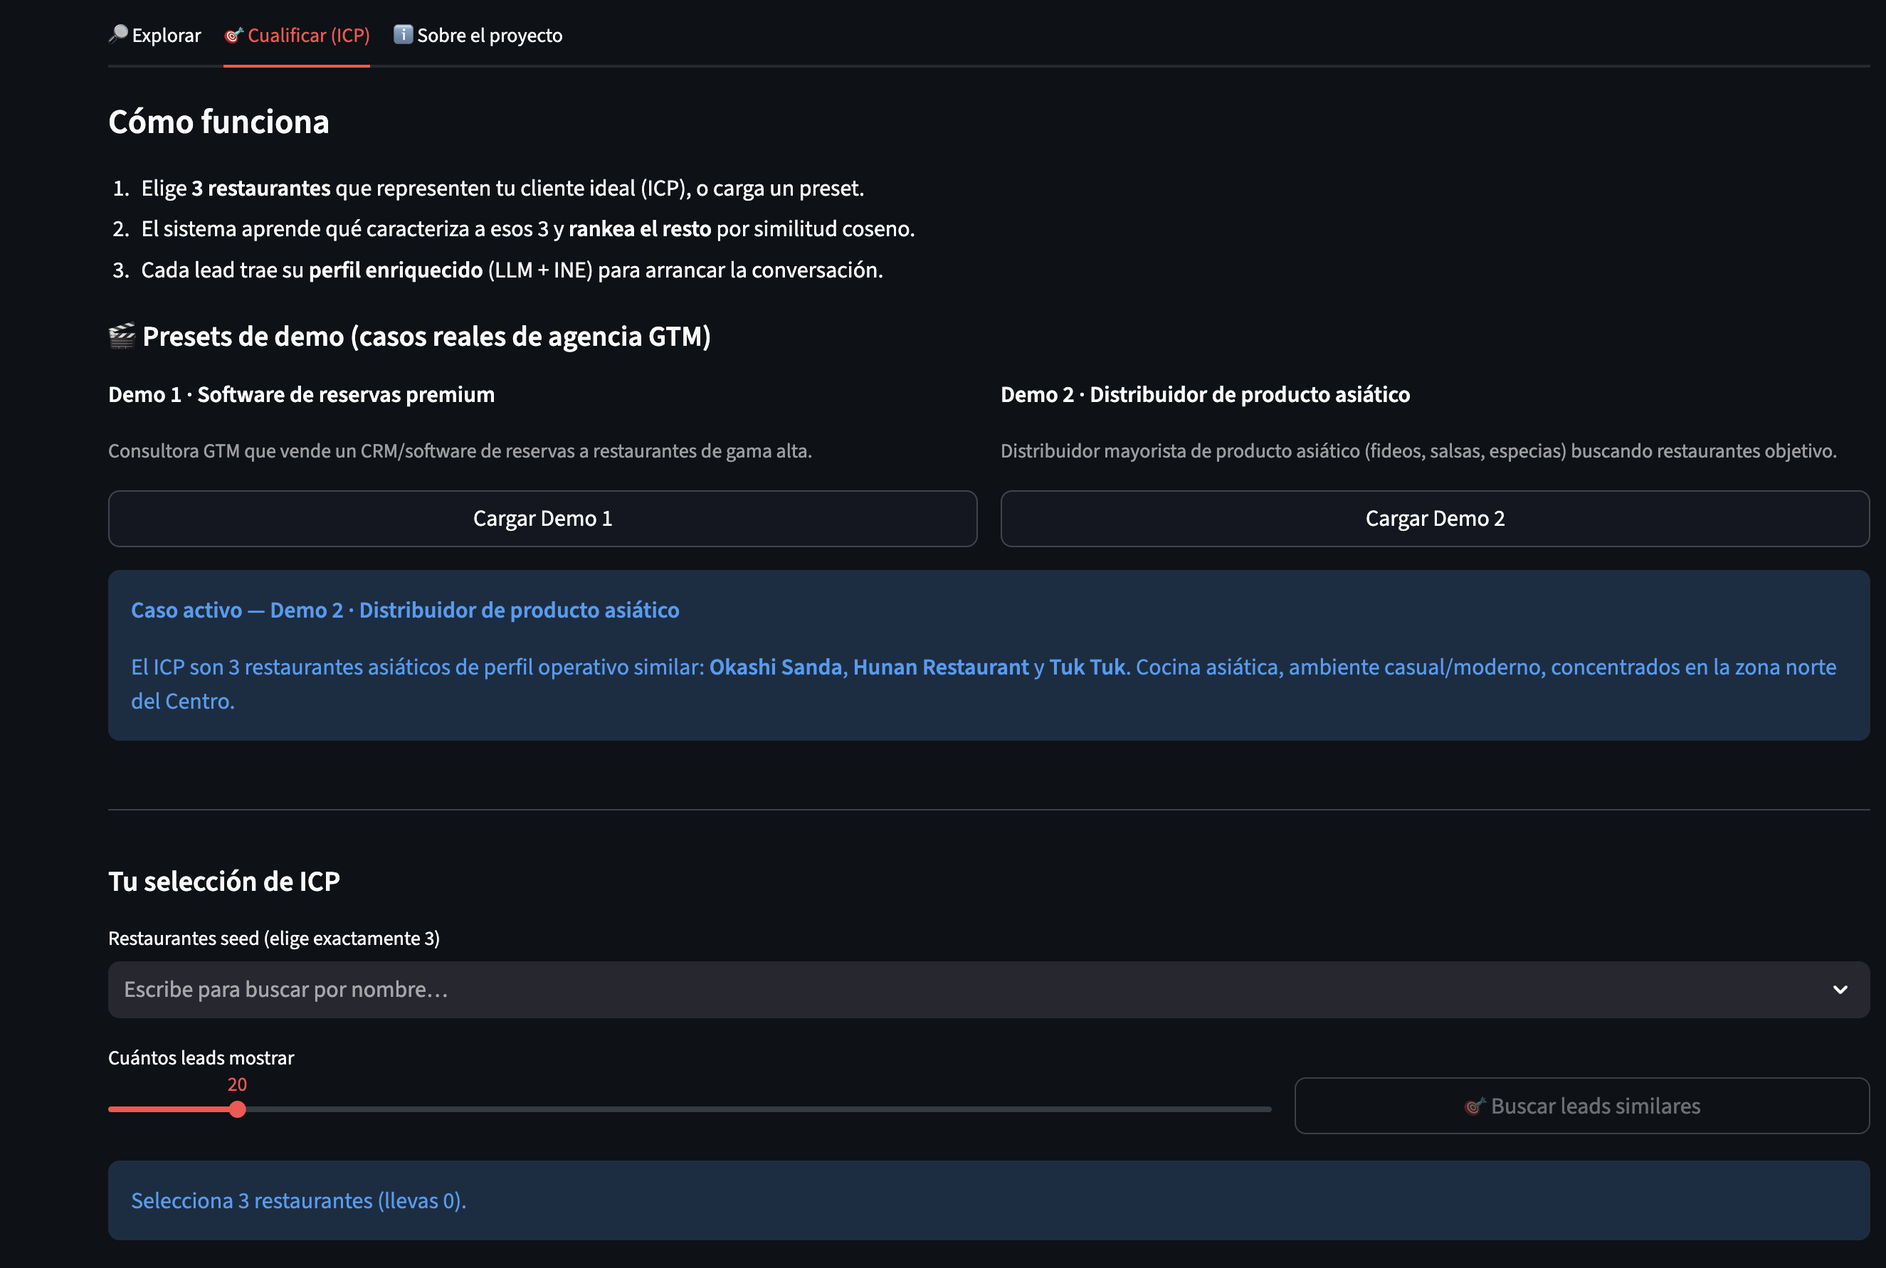
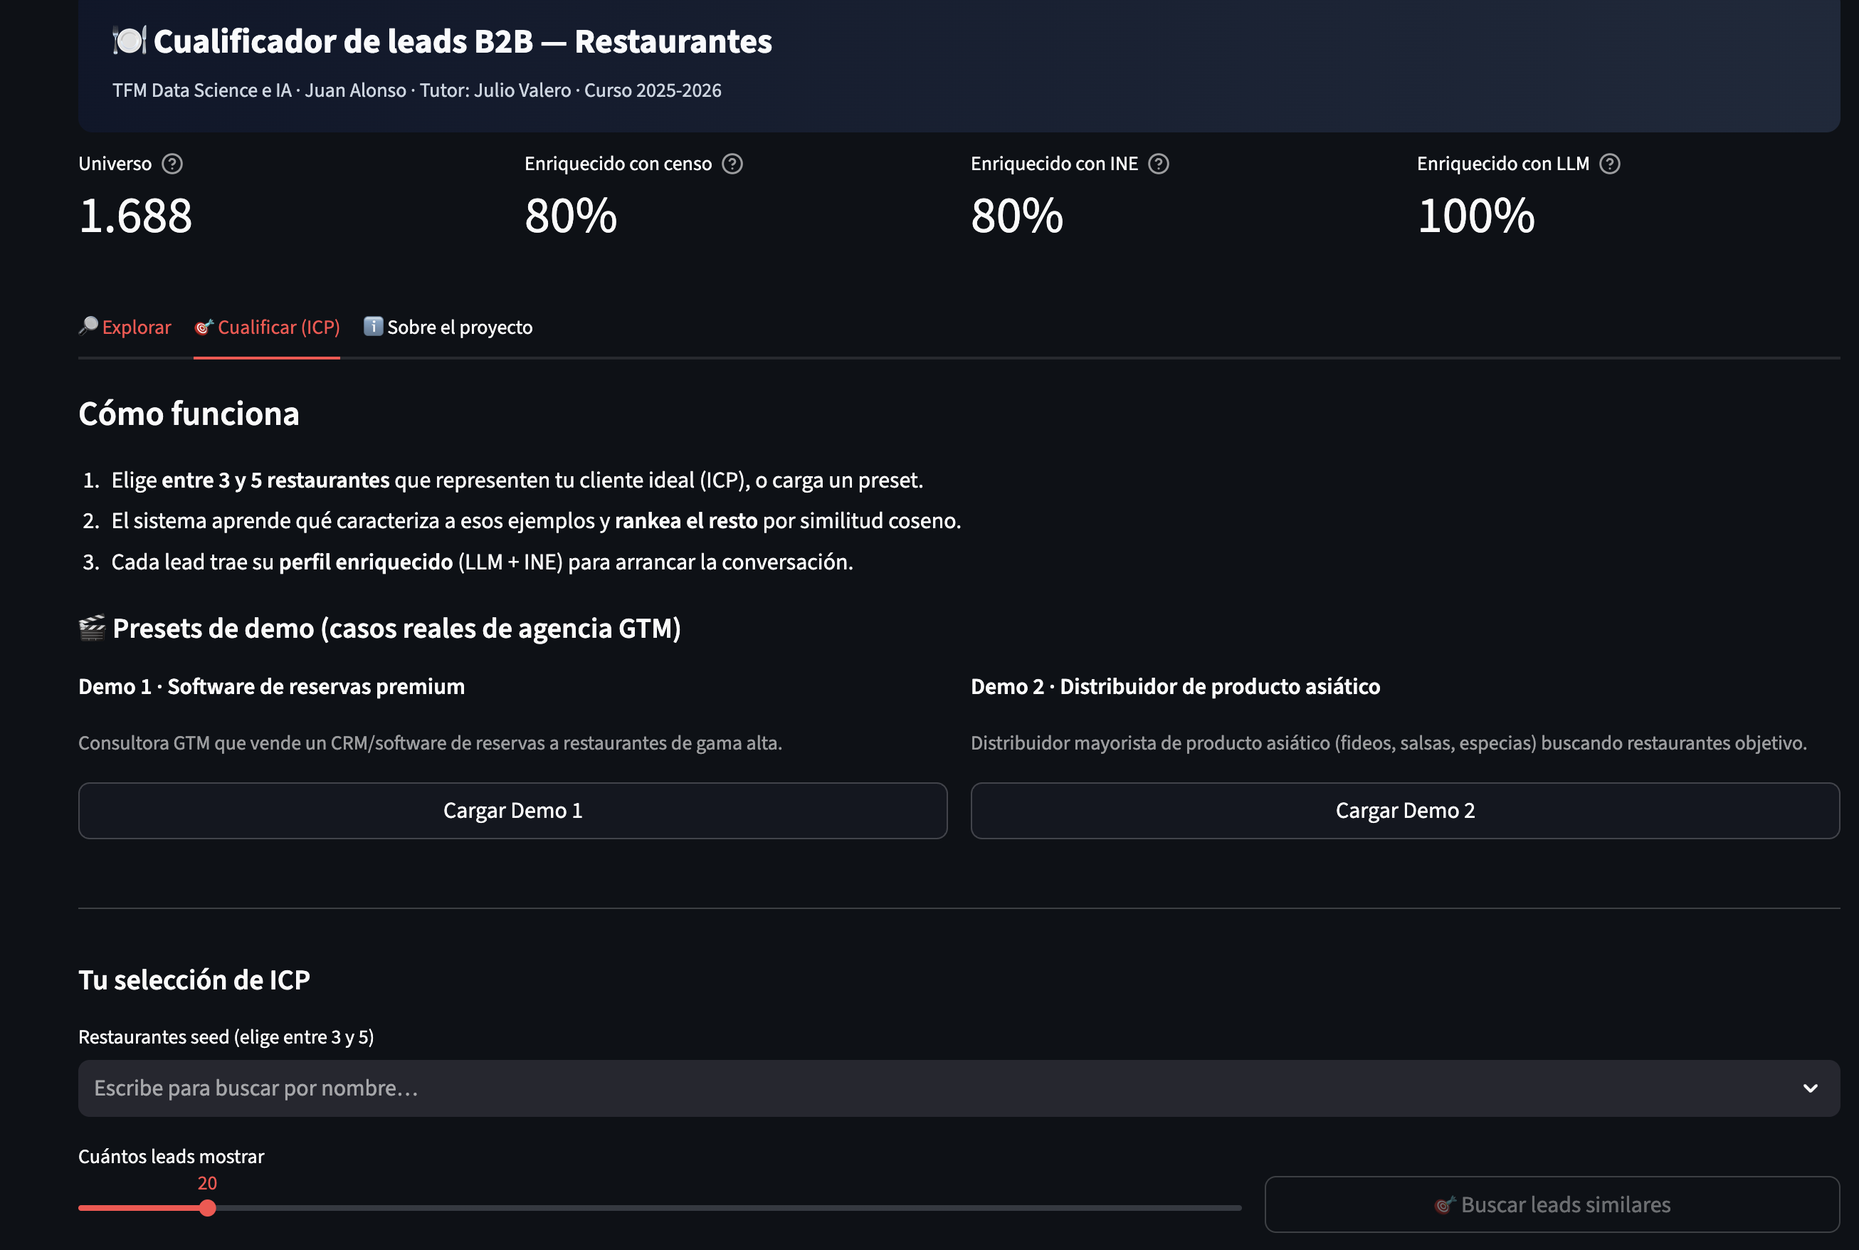
docs(entrega 5) + app: alinea con 5 seeds y embedding
Entrega 5 reescrita, capturas nuevas y textos de la app actualizados.

Claude-Session: https://claude.ai/code/session_01USMxBL4RBUTC9pvMKJ4Fe6

diff --git a/app/app.py b/app/app.py
@@ -4,7 +4,7 @@ TFM Data Science e IA — Juan Alonso · Tutor: Julio Valero · 2025-2026
 
 Pestañas:
 - 🔎 Explorar: universo de restaurantes con filtros, KPIs y mapa.
-- 🎯 Cualificar: seleccionas 3 restaurantes como ICP y devuelve top-K similares.
+- 🎯 Cualificar: seleccionas entre 3 y 5 restaurantes como ICP y devuelve top-K similares.
 - ℹ Sobre el proyecto: cifras del TFM, fuentes y features del modelo.
 
 Ejecutar desde la raíz del repo:
@@ -217,8 +217,8 @@ with tab_cualificar:
 
     st.markdown(
         "#### Cómo funciona\n"
-        "1. Elige **3 restaurantes** que representen tu cliente ideal (ICP), o carga un preset.\n"
-        "2. El sistema aprende qué caracteriza a esos 3 y **rankea el resto** por similitud coseno.\n"
+        "1. Elige **entre 3 y 5 restaurantes** que representen tu cliente ideal (ICP), o carga un preset.\n"
+        "2. El sistema aprende qué caracteriza a esos ejemplos y **rankea el resto** por similitud coseno.\n"
         "3. Cada lead trae su **perfil enriquecido** (LLM + INE) para arrancar la conversación."
     )
 
@@ -422,7 +422,7 @@ with tab_proyecto:
 
     st.markdown("### La solución")
     st.markdown(
-        "Un sistema que, a partir de **3 restaurantes de referencia** (ICP) aportados "
+        "Un sistema que, a partir de **entre 3 y 5 restaurantes de referencia** (ICP) aportados "
         "por el usuario, aprende automáticamente el perfil ideal mediante técnicas de "
         "*few-shot learning* y prioriza el universo restante por similitud coseno."
     )

diff --git a/docs/entregas/05_frontal_experiencia_usuario.md b/docs/entregas/05_frontal_experiencia_usuario.md
@@ -26,10 +26,10 @@ El frontal está diseñado para dos perfiles complementarios dentro del mismo ca
 
 ### Problema que resuelve el frontal
 
-El frontal traduce un motor complejo de datos y modelado (capa gold de 33 features, enriquecimiento LLM, modelo de similitud coseno) en **dos flujos comprensibles para usuarios que no saben programar**:
+El frontal traduce un motor complejo de datos y modelado (capa gold de 33 features, enriquecimiento LLM, modelo de similitud coseno con embedding semántico de 551 dimensiones) en **dos flujos comprensibles para usuarios que no saben programar**:
 
 1. **Explorar** el universo por filtros clásicos (barrio, cocina, epígrafe...) para entender qué hay.
-2. **Cualificar** un conjunto de leads similares a un ICP definido con solo 3 restaurantes-ejemplo.
+2. **Cualificar** un conjunto de leads similares a un ICP definido con 3-5 restaurantes-ejemplo.
 
 Sin este frontal, el mismo motor exigiría escribir código Python y consultar parquets — inviable en un contexto comercial. Con el frontal, el usuario obtiene ranking, mapa y dossier listos para pegar en HubSpot/Notion en menos de 30 segundos.
 
@@ -70,12 +70,12 @@ Al final del listado se ofrece un botón de descarga a CSV para llevarse el subc
 Aquí ocurre el valor diferencial del sistema. La pestaña se abre con:
 
 1. **Instrucciones "Cómo funciona"** en tres pasos numerados que anticipan el flujo.
-2. **Dos botones de presets** — Demo 1 (software de reservas premium) y Demo 2 (distribuidor de producto asiático) — que cargan casos comerciales reales.
-3. **Selector manual** para que el usuario pueda componer su propio ICP.
+2. **Dos botones de presets** — Demo 1 (software de reservas premium, 5 seeds) y Demo 2 (distribuidor de producto asiático, 3 seeds) — que cargan casos comerciales reales.
+3. **Selector manual** para que el usuario pueda componer su propio ICP con entre 3 y 5 restaurantes.
 4. **Slider** para elegir cuántos leads mostrar (10 a 100, por defecto 20).
 5. **Botón "Buscar leads similares"** — el CTA principal, en rojo cuando está activo.
 
-El botón permanece **desactivado hasta que se hayan seleccionado exactamente 3 restaurantes**, con un aviso azul que indica al usuario cuántos lleva. Este bloqueo previene el error clásico de lanzar el modelo con un ICP mal definido.
+El botón permanece **desactivado hasta que se hayan seleccionado entre 3 y 5 restaurantes**, con un aviso azul que indica al usuario cuántos lleva. Este rango se estableció tras el análisis empírico documentado en la Entrega 4: con 3 seeds las métricas LOO son inestables (Recall@100 = 0.33), con 5 seeds mejoran significativamente (Recall@100 = 0.60).
 
 ![Pestaña Cualificar con instrucciones, presets y selección vacía](img/entrega5_03_cualificar_inicio.png)
 *Pestaña Cualificar antes de operar. La sección "Cómo funciona" explica el flujo. Los dos presets de demo dan casos comerciales concretos. El desplegable permite selección manual libre. Cuando ningún seed está seleccionado, el botón "Buscar leads similares" permanece bloqueado y un mensaje azul indica al usuario qué le falta.*
@@ -86,14 +86,14 @@ Al pulsar "Buscar leads similares", la vista se amplía con cuatro secciones api
 
 1. **Tres métricas clave** (Score medio del top-K, Score máximo, % de leads con web propia).
 2. **Ranking tabular** ordenado por score, con descarga a CSV.
-3. **Mapa seeds vs leads** con los tres seeds en verde y los leads en azul.
+3. **Mapa seeds vs leads** con los seeds en verde y los leads en azul.
 4. **Ficha detalle** del lead que el usuario elija en un selector.
 
 ![Ranking de leads con métricas y tabla ordenada](img/entrega5_04_ranking.png)
-*Resultados del ICP premium (seeds Sagardi, Sandó, Dray Martina). El score máximo es 0.808 y el score medio del top-20 es 0.640. El 100% de los leads recomendados tiene web propia — señal muy alineada con el ICP premium (un vendedor de software de reservas premium prefiere restaurantes ya digitalizados). El ranking devuelve nombres reales del segmento premium de Madrid, sin sesgo hacia una cocina concreta.*
+*Resultados del ICP premium (seeds Sagardi, Sandó, Dray Martina, AskuaBarra, Gioia). El score máximo es 0.763 y el score medio del top-20 es 0.604. El 100% de los leads recomendados tiene web propia — señal muy alineada con el ICP premium (un vendedor de software de reservas premium prefiere restaurantes ya digitalizados). El ranking devuelve nombres reales del segmento premium de Madrid: La Taberna del Alabardero, Café de Oriente, Bloved Veggie Corner, Superchulo, Lelong Asian Club, La Primera, Ópera Victoria, entre otros — con diversidad de cocinas y ambientes, sin sesgo hacia un tipo concreto.*
 
 ![Mapa seeds vs leads y ficha detalle](img/entrega5_05_mapa_ficha.png)
-*Mapa geográfico con los seeds del ICP (verde) y los leads recomendados (azul). Se aprecia la concentración de leads en Justicia (Chueca) y Palacio, coherente con la naturaleza premium del ICP. Debajo, la ficha detalle del lead seleccionado (La Taberna del Alabardero, score 0.808) muestra el nombre, ubicación, cocina, score de similitud, renta media del entorno (32.264 €) y las señales operativas del restaurante.*
+*Mapa geográfico con los seeds del ICP (verde) y los leads recomendados (azul). Se aprecia la concentración de leads en Palacio, Justicia y Cortes, coherente con la naturaleza premium del ICP. Debajo, la ficha detalle del lead seleccionado (La Taberna del Alabardero, score 0.763) muestra el nombre, ubicación, cocina, score de similitud, renta media del entorno y las señales operativas del restaurante.*
 
 ![Perfil cualitativo del LLM y dossier copy-paste para CRM](img/entrega5_06_dossier.png)
 *Parte inferior de la ficha detalle. Perfil cualitativo generado por el LLM (ambiente, presencia digital, posicionamiento, clientela) con un resumen textual que contextualiza el restaurante para el comercial. Al final, un dossier en formato Markdown listo para copiar y pegar directamente en HubSpot, Notion o cualquier herramienta CRM.*
@@ -108,11 +108,11 @@ La acción principal es una sola: pulsar "Buscar leads similares". El resto del 
 
 ### Presets como ancla narrativa
 
-Los presets de demo no son solo un atajo técnico — son **narrativas comerciales completas** que contextualizan el ICP. Al pulsar "Cargar Demo 1", aparece un cuadro azul explicando quién es el cliente (consultora GTM), qué producto vende (software de reservas premium), qué restaurantes ha elegido como ejemplo y por qué. Esto convierte una demo técnica en una historia comprensible para cualquier no-técnico.
+Los presets de demo no son solo un atajo técnico — son **narrativas comerciales completas** que contextualizan el ICP. Al pulsar "Cargar Demo 1", aparece un cuadro azul explicando quién es el cliente (consultora GTM), qué producto vende (software de reservas premium), qué 5 restaurantes ha elegido como ejemplo y por qué. Esto convierte una demo técnica en una historia comprensible para cualquier no-técnico.
 
 ### Bloqueo de estados inválidos
 
-El botón "Buscar leads similares" solo se activa con exactamente 3 seeds. Es una restricción **coherente con la técnica de few-shot learning que respalda el modelo**: el sistema está diseñado para operar con 3 ejemplos, y forzar esa cardinalidad evita ambigüedades sobre qué significa "un ICP" para el usuario.
+El botón "Buscar leads similares" solo se activa entre 3 y 5 seeds seleccionados. Es una restricción **coherente con la técnica de few-shot learning que respalda el modelo**: el sistema está diseñado para operar con muy pocos ejemplos, y forzar ese rango evita ambigüedades sobre qué significa "un ICP" para el usuario. El rango 3-5 se estableció tras el análisis empírico de la Entrega 4.
 
 ### Multiescala de información
 
@@ -145,31 +145,31 @@ El sidebar de filtros solo aplica a la pestaña Explorar y así se indica explí
 - **Los KPIs se recalculan al aplicar filtros** — el usuario ve el efecto inmediato de cada acción.
 - **El botón CTA cambia de gris a rojo** cuando se cumplen las condiciones necesarias.
 - **Los seeds seleccionados aparecen como chips visibles** para que el usuario nunca dude qué ha cargado.
-- **Los mensajes azules informativos** ("Selecciona 3 restaurantes", "Caso activo") acompañan cada estado del flujo.
+- **Los mensajes azules informativos** ("Selecciona entre 3 y 5 restaurantes", "Caso activo") acompañan cada estado del flujo.
 
 ---
 
-## 4. Puntos débiles y próximos pasos del frontal
+## 4. Puntos débiles reconocidos y próximos pasos
 
 ### Puntos débiles reconocidos
 
-**1. Explicabilidad del score.** Actualmente el score de similitud es un número (por ejemplo 0.808) pero no se muestra al usuario **qué features han pesado más** en ese resultado. Un comercial sofisticado querría saber "este lead entra porque comparte barrio, ambiente y renta con dos de tus seeds". Sería directamente accionable e incrementaría la confianza del usuario en el sistema.
+**1. Explicabilidad del score aún no visible al usuario final.** Actualmente el score de similitud es un número (por ejemplo 0.763) pero no se muestra al usuario **qué features han pesado más** en ese resultado. El tutor señaló explícitamente este punto en la revisión previa. La arquitectura del modelo (551 features divididas en 3 bloques: 3 numéricas + 7 booleanas + ~157 one-hot categóricas + 384 embedding) permite una descomposición sencilla: bastaría con calcular el coseno parcial contra cada bloque y mostrar cuánto pesa la firma estructural (167 dims) frente a la firma semántica (embedding 384 dims). Es una mejora pendiente para la próxima iteración de la app, no un límite del modelo.
 
-**2. Completitud de las señales operativas.** Los indicadores operativos de cada lead (web, teléfono, horario, terraza, delivery, takeaway, accesible) provienen de OpenStreetMap y dependen del voluntariado que mantiene esa fuente. Restaurantes históricos o con ficha antigua muestran muchos campos vacíos. En la práctica esto limita la utilidad del dossier: por ejemplo, La Taberna del Alabardero (score máximo del ejemplo) aparece solo con web y teléfono, sin horario ni terraza.
+**2. Rango de score aparente vs teórico.** El score coseno tiene rango teórico **[-1, 1]** (1 = idéntico, -1 = opuesto). En la práctica los valores observados caen en [0.40, 0.85] porque el embedding tiene naturaleza mayoritariamente no-negativa. Esta aclaración se ha incorporado a la documentación tras el feedback del tutor.
 
-**3. Vocabulario no normalizado de la variable `cocina`.** La columna cocina viene de OSM sin normalización semántica: aparecen variantes como `spanish`, `spanish;tapas`, `regional;spanish` o `regional` que conceptualmente representan lo mismo. Esto afecta ligeramente al filtro de la pestaña Explorar y a la señal one-hot que el modelo usa como feature.
+**3. Completitud de las señales operativas.** Los indicadores operativos de cada lead (web, teléfono, horario, terraza, delivery, takeaway, accesible) provienen de OpenStreetMap y dependen del voluntariado que mantiene esa fuente. Restaurantes históricos o con ficha antigua muestran muchos campos vacíos. En la práctica esto limita la utilidad del dossier: por ejemplo, La Taberna del Alabardero (score máximo del ejemplo) aparece solo con web y teléfono, sin horario ni terraza.
 
-**4. Sesgo del ranking según seeds.** El resultado del modelo es sensible a la composición del ICP: si uno de los seeds tiene una firma vectorial muy densa (por ejemplo un japonés premium en Palacio), su influencia en el centroide puede sesgar el ranking hacia perfiles muy parecidos a él. El sistema deja esta decisión en manos del usuario (elegir seeds equilibrados), pero podría ofrecer feedback visual sobre la homogeneidad interna del ICP.
+**4. Vocabulario no normalizado de la variable `cocina`.** La columna cocina viene de OSM sin normalización semántica: aparecen variantes como `spanish`, `spanish;tapas`, `regional;spanish` o `regional` que conceptualmente representan lo mismo. Esto afecta ligeramente al filtro de la pestaña Explorar y a la señal one-hot que el modelo usa como feature.
 
-**5. No hay persistencia entre sesiones.** Cada vez que el usuario refresca, pierde su selección. Un despliegue en producción incluiría un guardado de "mis ICPs favoritos" y de "campañas anteriores".
+**5. Sesgo del ranking según seeds (mitigado con 5 seeds).** El resultado del modelo es sensible a la composición del ICP: con 3 seeds, si uno tiene una firma vectorial muy densa (por ejemplo un japonés premium en Palacio), su influencia en el centroide puede sesgar el ranking. El paso a 5 seeds mitiga significativamente este efecto (el centroide se calcula sobre más puntos), pero no lo elimina. El sistema deja esta decisión en manos del usuario (elegir seeds equilibrados), y una futura mejora podría ofrecer feedback visual sobre la homogeneidad interna del ICP seleccionado.
+
+**6. No hay persistencia entre sesiones.** Cada vez que el usuario refresca, pierde su selección. Un despliegue en producción incluiría un guardado de "mis ICPs favoritos" y de "campañas anteriores".
 
 ### Próximos pasos del frontal
 
-**Explicabilidad por lead.** Añadir SHAP values o, más simple, una descomposición del score por bloque de features (numéricas, categóricas, embedding LLM) para que el comercial entienda de un vistazo qué señala el sistema.
+**Explicabilidad por bloques del score.** Añadir al detalle de cada lead una descomposición del score en dos componentes: (a) similitud estructural (167 features) y (b) similitud semántica (embedding LLM, 384 dims). Es la respuesta directa al punto débil 1 y al feedback del tutor. Adicionalmente, se puede añadir una tabla de coincidencias cualitativas por variable (barrio, ambiente, posicionamiento) para reforzar la interpretación visual.
 
-**Generación de emails personalizados con LLM.** Con el perfil cualitativo del lead ya generado, es directo pedir al LLM que redacte el primer email de outbound personalizado. Es la extensión natural del sistema hacia el flujo operativo completo.
-
-**Integración con CRMs y herramientas de outbound.** Integraciones directas con HubSpot, Pipedrive, Clay o Smartlead — hoy el dossier es copy-paste, mañana podría ser un botón "Enviar al CRM".
+**Integración con CRMs y herramientas de outbound.** Integraciones directas con HubSpot, Pipedrive, Clay o Smartlead — hoy el dossier es copy-paste, mañana podría ser un botón "Enviar al CRM" que crea el contacto y arranca la secuencia de outbound.
 
 **Enriquecimiento demográfico ampliado del INE.** El sistema actual solo utiliza la renta media del INE. Para el caso concreto de restauración en el Centro de Madrid, las demás variables demográficas del INE aportarían poco (edad, población y tamaño de hogar varían poco entre secciones urbanas céntricas). Pero **el sistema es genérico**: aplicado a otros sectores B2B como gimnasios (interesa edad media), guarderías (tamaño del hogar y % menores), ópticas o clínicas geriátricas (edad media alta), inmobiliarias premium (renta alta + índice de Gini), estas variables serían mucho más discriminativas. Un siguiente paso natural es ampliar la capa de enriquecimiento con estas variables como opciones seleccionables según el vertical.
 
@@ -177,8 +177,10 @@ El sidebar de filtros solo aplica a la pestaña Explorar y así se indica explí
 
 **Escalado geográfico.** Del Centro de Madrid a toda la ciudad, a España y a otros países. Las fuentes utilizadas (OpenStreetMap, censos municipales, INE) tienen equivalentes en la mayoría de países desarrollados.
 
+**Ampliación del conjunto de seeds a 20-50 por ICP.** Con muestras mayores, las métricas LOO ganarían discriminación estadística, el embedding aportaría más valor cuantitativo (hoy es sobre todo cualitativo con solo 5 seeds), y el modelo sería más robusto ante seeds atípicos.
+
 ---
 
 ## 5. Resumen ejecutivo
 
-El frontal desarrollado en Streamlit sirve como interfaz operativa completa del sistema de cualificación de leads. No es un mockup ni una demo estática: es la aplicación real que se defiende, con el motor de similitud coseno operando sobre la capa gold enriquecida (OpenStreetMap + censo municipal + INE + LLM). La aplicación resuelve dos flujos complementarios (explorar el universo y cualificar un ICP) con decisiones de UX que priorizan la simplicidad del CTA, el feedback visual continuo y la salida directamente accionable para el comercial. Las limitaciones actuales (explicabilidad del score, completitud OSM, normalización de vocabularios) están reconocidas y forman parte de la agenda de próximos pasos, junto con la ampliación del sistema a otros sectores verticales del B2B.
+El frontal desarrollado en Streamlit sirve como interfaz operativa completa del sistema de cualificación de leads. No es un mockup ni una demo estática: es la aplicación real que se defiende, con el motor de similitud coseno operando sobre un vector combinado de 551 dimensiones (features estructuradas + embedding semántico del `resumen_llm`) sobre la capa gold enriquecida (OpenStreetMap + censo municipal + INE + LLM). La aplicación resuelve dos flujos complementarios (explorar el universo y cualificar un ICP con entre 3 y 5 seeds) con decisiones de UX que priorizan la simplicidad del CTA, el feedback visual continuo y la salida directamente accionable para el comercial. Las limitaciones actuales están reconocidas: la explicabilidad del score (pendiente pero con solución clara: descomposición por bloques), la completitud parcial de OSM y la no persistencia entre sesiones forman parte de la agenda de próximos pasos, junto con la ampliación del sistema a otros sectores verticales del B2B.
